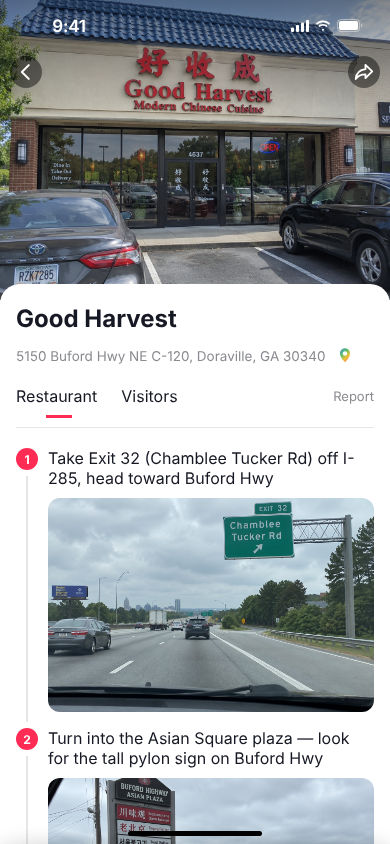
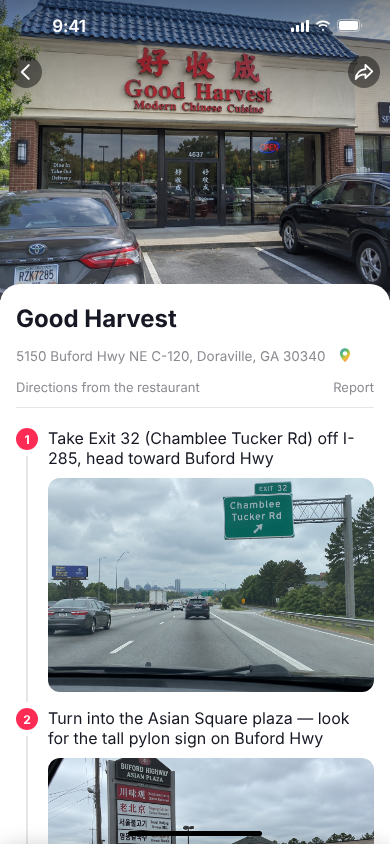
Guide page: drop the unbuilt Visitors tab; single source line + Report
Claude-Session: https://claude.ai/code/session_01Q6z36aYFBjH3xCc6Ygpjkp

Changed region(s): [[0.0308, 0.4313, 0.9846, 1.0], [0.5846, 0.955, 0.9846, 1.0], [0.0308, 0.8318, 0.0923, 0.8934]]

diff --git a/index.html b/index.html
@@ -131,7 +131,7 @@
   </section>
 
 <section class="screen" id="menu"><header class="menu-header"><button data-act="pop" aria-label="Back"><span class="ic" data-i="back"></span></button><b>Dishes</b></header><div class="menu-scroll"><div class="menu-sticky"><nav class="category-chips" aria-label="Menu categories"></nav></div><div id="menuList"></div></div><div class="action-bar light"><button class="btn2" data-act="ride"><b>Get a ride</b><span>from $20 · Uber / Lyft</span></button><button class="btn1" data-act="dir"><b>Guide me there</b><span>18 min drive</span></button></div></section>
-<section class="screen" id="guide"><div class="guide-scroll"><img class="guide-hero" src="img/figma/ec583.png" alt="Good Harvest storefront"><div class="guide-nav"><button class="circ" data-act="pop" aria-label="Back"><span class="ic" data-i="back"></span></button><button class="circ" data-act="demo" aria-label="Share"><span class="ic" data-i="share"></span></button></div><article class="guide-content"><h1>Good Harvest</h1><button class="guide-address" data-act="dir">5150 Buford Hwy NE C-120, Doraville, GA 30340<span class="ic" data-i="pin"></span></button><nav class="guide-tabs"><button class="on" data-act="restaurant">Restaurant</button><button data-act="demo">Visitors</button><button data-act="demo">Report</button></nav><ol class="guide-steps"><li><span>1</span><p>Take Exit 32 (Chamblee Tucker Rd) off I-285, head toward Buford Hwy</p><img src="img/figma/278a5.png" alt="Exit 32"></li><li><span>2</span><p>Turn into the Asian Square plaza — look for the tall pylon sign on Buford Hwy</p><img src="img/figma/34341.png" alt="Asian Square plaza sign"></li><li><span>3</span><p>Good Harvest is at the far end, suite C-120, under the blue tile roof</p><img src="img/figma/ec583.png" alt="Good Harvest entrance"></li></ol></article></div></section>
+<section class="screen" id="guide"><div class="guide-scroll"><img class="guide-hero" src="img/figma/ec583.png" alt="Good Harvest storefront"><div class="guide-nav"><button class="circ" data-act="pop" aria-label="Back"><span class="ic" data-i="back"></span></button><button class="circ" data-act="demo" aria-label="Share"><span class="ic" data-i="share"></span></button></div><article class="guide-content"><h1>Good Harvest</h1><button class="guide-address" data-act="dir">5150 Buford Hwy NE C-120, Doraville, GA 30340<span class="ic" data-i="pin"></span></button><div class="guide-tabs"><span class="src">Directions from the restaurant</span><button data-act="demo">Report</button></div><ol class="guide-steps"><li><span>1</span><p>Take Exit 32 (Chamblee Tucker Rd) off I-285, head toward Buford Hwy</p><img src="img/figma/278a5.png" alt="Exit 32"></li><li><span>2</span><p>Turn into the Asian Square plaza — look for the tall pylon sign on Buford Hwy</p><img src="img/figma/34341.png" alt="Asian Square plaza sign"></li><li><span>3</span><p>Good Harvest is at the far end, suite C-120, under the blue tile roof</p><img src="img/figma/ec583.png" alt="Good Harvest entrance"></li></ol></article></div></section>
   <!-- ============ Hand-off sheets ============ -->
   <div id="dim" data-act="closeSheet"></div>
 

diff --git a/styles.css b/styles.css
@@ -400,7 +400,7 @@ body.mouse #phone,body.mouse #phone *{cursor:none!important}
 .category-chips{display:flex;gap:8px;overflow-x:auto;padding:10px 16px;scrollbar-width:none}.category-chips button{padding:8px 15px;border-radius:24px;background:#F1F1F2;font-size:14px;white-space:nowrap;transition:background .18s,color .18s}.category-chips .on{background:#161823;color:white;font-weight:600}
 .guide-scroll{position:absolute;inset:0;overflow-y:auto;overscroll-behavior:contain;scrollbar-width:none}.guide-hero{width:390px;height:300px;object-fit:cover}.guide-nav{position:absolute;top:0;left:0;right:0;height:110px;padding:56px 10px 0;display:flex;justify-content:space-between;background:linear-gradient(#0007,transparent)}
 .guide-content{position:relative;margin-top:-16px;background:white;border-radius:20px 20px 0 0;padding:20px 16px 44px}.guide-content h1{font-size:24px;line-height:29px}.guide-address{display:flex;gap:12px;font-size:13.5px;color:var(--sub);margin-top:14px;line-height:18px}.guide-address svg{width:16px;height:16px}
-.guide-tabs{display:flex;gap:24px;align-items:center;border-bottom:1px solid #E6E6E8;margin-top:14px;padding-bottom:14px;height:49px}.guide-tabs button{font-size:16px;position:relative}.guide-tabs .on:after{content:'';position:absolute;bottom:-12px;left:30px;width:26px;height:3px;background:#FE2C55}.guide-tabs button:last-child{margin-left:auto;font-size:13px;color:var(--sub)}
+.guide-tabs{display:flex;align-items:center;justify-content:space-between;border-bottom:1px solid #E6E6E8;margin-top:14px;padding-bottom:12px}.guide-tabs .src{font-size:13px;color:var(--sub)}.guide-tabs button{font-size:13px;color:var(--sub)}
 .guide-steps{list-style:none;margin-top:20px}.guide-steps li{position:relative;padding-left:32px;margin-bottom:16px}.guide-steps li>span{position:absolute;left:0;top:0;background:#FE2C55;color:white;width:22px;height:22px;border-radius:50%;display:grid;place-items:center;font-size:12px;font-weight:700}.guide-steps li:not(:last-child):before{content:'';position:absolute;left:10px;top:28px;bottom:-10px;width:2px;background:#E6E6E8}.guide-steps p{font-size:16px;line-height:20px;min-height:40px;margin-bottom:10px}.guide-steps img{width:326px;height:214px;object-fit:cover;border-radius:12px}
 .nearby-row{display:flex;align-items:center;gap:12px;padding:14px 0;width:100%;border-bottom:1px solid #F1F1F2}.nearby-row>img{width:72px;height:72px;border-radius:10px;object-fit:cover}.nearby-row>div{flex:1;min-width:0}.nearby-row b{font-size:16px;font-weight:600}.nearby-row p{font-size:12px;color:#8A8B91;line-height:18px}.nearby-row small{display:inline-block;background:#F1F1F2;border-radius:4px;padding:2px 5px;font-size:11px;color:#5E5F66}.nearby-row>span{color:#8A8B91}.red-star{color:#FE2C55}
 #nearbyLoading{font-size:12px;color:#8A8B91;display:flex;justify-content:center;align-items:center;gap:8px;padding:20px 0}#nearbyLoading .spin{border-color:#E6E6E8;border-top-color:#8A8B91}
